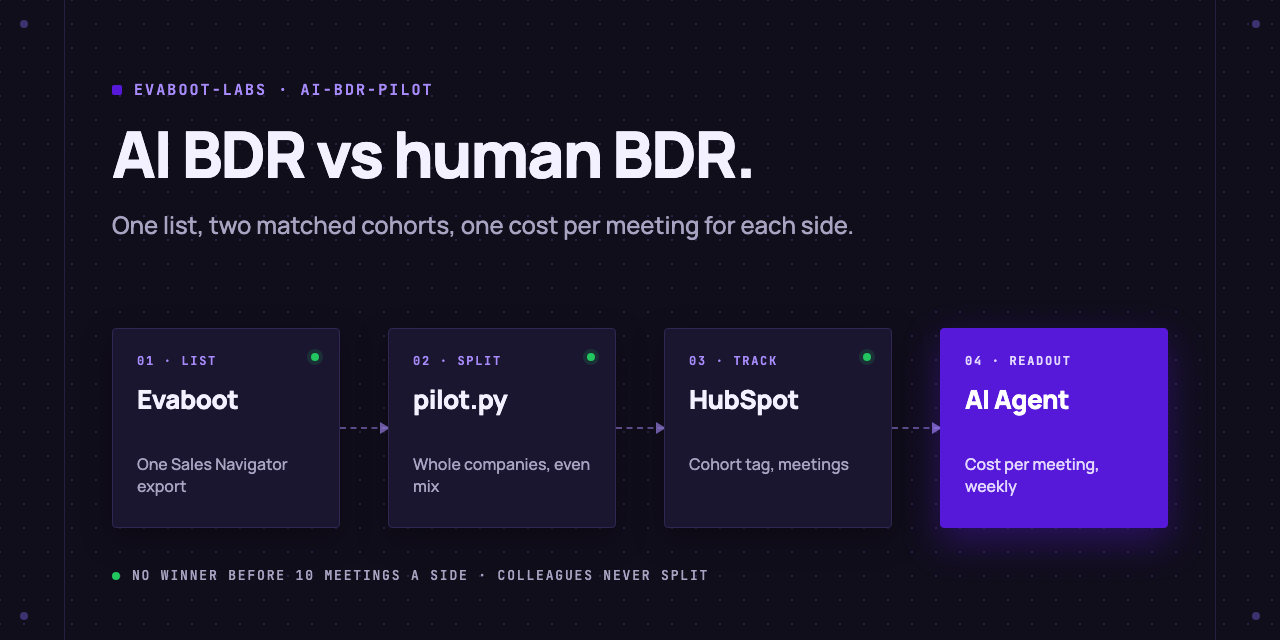
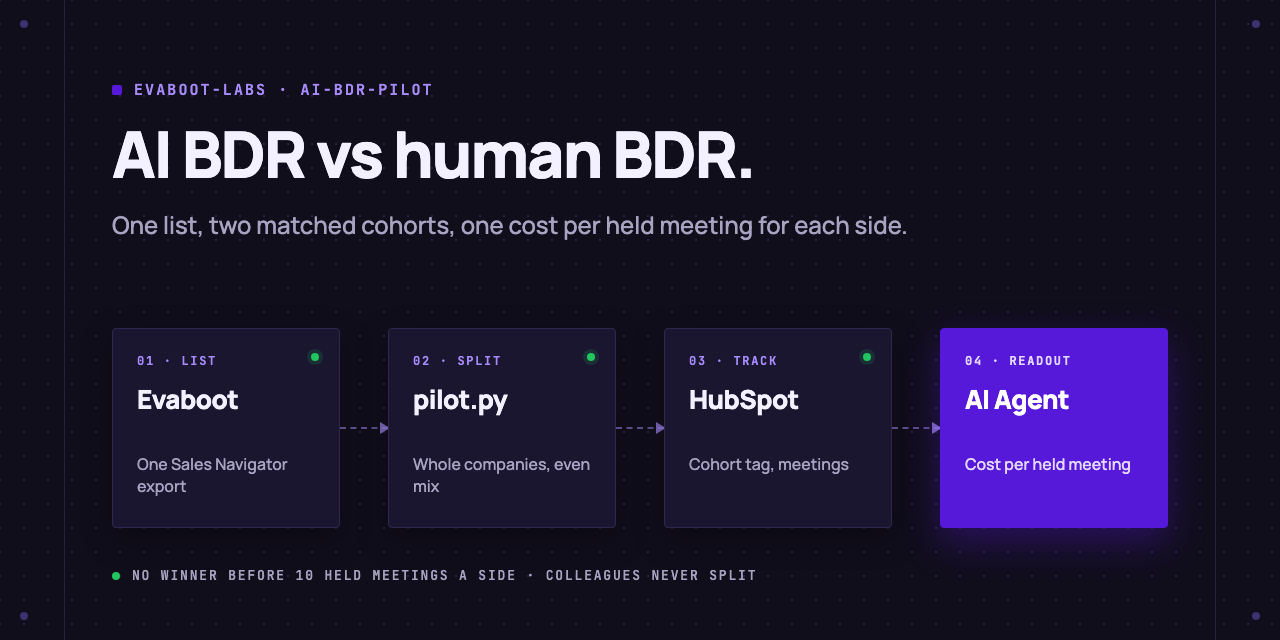
Score on held meetings, not booked ones (#2)
A booked meeting that never happens costs the same and is worth nothing. score counts booked (not cancelled) and held (outcome Completed) meetings, and the verdict uses the cost per held meeting. Same change in the n8n workflow.

diff --git a/n8n/build_workflow.py b/n8n/build_workflow.py
@@ -1,7 +1,7 @@
 """Builds n8n/ai-bdr-pilot.json. Run: python3 n8n/build_workflow.py
 
 Every Monday at 8, the workflow reads the pilot's contacts from HubSpot, counts the meetings of each cohort
-since the start (cancelled ones left out), works out the cost per meeting from your settings, asks Claude for
+since the start (booked, and held = outcome Completed), works out the cost per held meeting from your settings, asks Claude for
 a short readout and adds one row to the "Pilot readouts" Data table. Same rules as pilot.py score and check.
 The split and the push are one-off steps: run them with pilot.py.
 """
@@ -39,14 +39,14 @@ def hubspot(name, url, body_expr, pos):
 
 
 SCORE_JS = r"""
-// Same as pilot.py score: meetings after the start that were not cancelled, cost per meeting per cohort.
+// Same as pilot.py score: meetings after the start, booked (not cancelled) and held (Completed), cost per held meeting.
 const s = $('Settings').first().json;
 const contacts = $('Pilot contacts').first().json.results || [];
 const links = {};
 for (const r of ($('Their meetings').first().json.results || [])) links[String(r.from.id)] = (r.to || []).map(t => String(t.toObjectId));
-const good = new Set((($('Meeting details').first().json.results) || [])
-  .filter(m => String(m.properties.hs_meeting_outcome || '').toUpperCase() !== 'CANCELED' && String(m.properties.hs_timestamp || '') >= s.start)
-  .map(m => String(m.id)));
+const all = (($('Meeting details').first().json.results) || []).filter(m => String(m.properties.hs_timestamp || '') >= s.start);
+const booked = new Set(all.filter(m => String(m.properties.hs_meeting_outcome || '').toUpperCase() !== 'CANCELED').map(m => String(m.id)));
+const held = new Set(all.filter(m => String(m.properties.hs_meeting_outcome || '').toUpperCase() === 'COMPLETED').map(m => String(m.id)));
 const weeksRun = Math.max(1, Math.floor((Date.now() - Date.parse(s.start)) / 6048e5) + 1);
 const weeks = Math.min(weeksRun, Number(s.weeks));
 const month = weeks / 4.33;
@@ -55,13 +55,14 @@ const cost = { human: Number(s.human_cost_per_month) * Number(s.human_share_on_p
 const cohorts = {};
 for (const side of ['ai', 'human']) {
   const rows = contacts.filter(c => c.properties.bdr_pilot_cohort === side);
-  const met = rows.filter(c => (links[String(c.id)] || []).some(m => good.has(m))).length;
+  const has = set => rows.filter(c => (links[String(c.id)] || []).some(m => set.has(m))).length;
+  const b = has(booked), h = has(held);
   cohorts[side] = { people: rows.length, positive_replies: rows.filter(c => c.properties.bdr_pilot_reply === 'positive').length,
-    meetings: met, meetings_per_100: rows.length ? Math.round(1000 * met / rows.length) / 10 : 0,
-    cost: Math.round(cost[side]), cost_per_meeting: met ? Math.round(cost[side] / met) : null };
+    meetings_booked: b, meetings_held: h, show_rate_pct: b ? Math.round(100 * h / b) : null,
+    cost: Math.round(cost[side]), cost_per_held_meeting: h ? Math.round(cost[side] / h) : null };
 }
-const low = Object.keys(cohorts).filter(k => cohorts[k].meetings < Number(s.min_meetings));
-const verdict = low.length ? 'too early' : (cohorts.ai.cost_per_meeting < cohorts.human.cost_per_meeting ? 'ai cheaper' : 'human cheaper');
+const low = Object.keys(cohorts).filter(k => cohorts[k].meetings_held < Number(s.min_meetings));
+const verdict = low.length ? 'too early' : (cohorts.ai.cost_per_held_meeting < cohorts.human.cost_per_held_meeting ? 'ai cheaper' : 'human cheaper');
 return [{ json: { pilot: s.pilot, start: s.start, weeks_counted: weeks, currency: s.currency, min_meetings: Number(s.min_meetings), cohorts, verdict } }];
 """
 
@@ -72,8 +73,8 @@ const text = String($json.output.readout || '');
 const flat = text.replace(/,/g, '');
 const problems = [];
 for (const [side, v] of Object.entries(sc.cohorts)) {
-  for (const key of ['people', 'meetings']) if (!new RegExp('\\b' + v[key] + '\\b').test(flat)) problems.push(`${side} ${key} missing`);
-  if (v.cost_per_meeting && !flat.includes(String(v.cost_per_meeting))) problems.push(`${side} cost per meeting missing`);
+  for (const key of ['people', 'meetings_booked', 'meetings_held']) if (!new RegExp('\\b' + v[key] + '\\b').test(flat)) problems.push(`${side} ${key} missing`);
+  if (v.cost_per_held_meeting && !flat.includes(String(v.cost_per_held_meeting))) problems.push(`${side} cost per held meeting missing`);
 }
 if (sc.verdict === 'too early') {
   if (!/too early/i.test(text)) problems.push('must say too early');
@@ -82,16 +83,16 @@ if (sc.verdict === 'too early') {
 if (/\b(he|she|him|her|his|hers)\b/i.test(text)) problems.push('guesses a gender');
 const a = sc.cohorts.ai, h = sc.cohorts.human;
 return [{ json: { week_of: new Date().toISOString().slice(0, 10), pilot: sc.pilot, verdict: sc.verdict,
-  ai_people: a.people, ai_meetings: a.meetings, ai_cost_per_meeting: a.cost_per_meeting ?? 0,
-  human_people: h.people, human_meetings: h.meetings, human_cost_per_meeting: h.cost_per_meeting ?? 0,
+  ai_people: a.people, ai_booked: a.meetings_booked, ai_held: a.meetings_held, ai_cost_per_held_meeting: a.cost_per_held_meeting ?? 0,
+  human_people: h.people, human_booked: h.meetings_booked, human_held: h.meetings_held, human_cost_per_held_meeting: h.cost_per_held_meeting ?? 0,
   readout: text, check: problems.length ? 'FAIL: ' + problems.join('; ') : 'OK' } }];
 """
 
 READOUT_SYSTEM = """You write the weekly readout of an AI BDR vs human BDR pilot for a sales leader. Use only the numbers in the JSON. Never invent a number, a reason or a trend.
 
 Return {readout}: under 120 words, plain text.
-- Line 1: the verdict. If the verdict is "too early", say "Too early to call" and how many meetings each side still needs; never say who wins or leads.
-- Then one line per cohort: people, meetings, positive replies, money spent so far, and the cost per meeting when there is one, with the currency.
+- Line 1: the verdict, on the cost per HELD meeting. If the verdict is "too early", say "Too early to call" and how many held meetings each side still needs; never say who wins or leads.
+- Then one line per cohort: people, meetings booked, meetings held, positive replies, money spent so far, and the cost per held meeting when there is one, with the currency.
 - Never guess anyone's gender."""
 
 node("Every Monday at 8", "n8n-nodes-base.scheduleTrigger", 1.2, {"rule": {"interval": [

diff --git a/pilot.py b/pilot.py
@@ -1,4 +1,4 @@
-"""AI BDR vs human BDR pilot: one Evaboot list, two matched cohorts, one cost per meeting for each side.
+"""AI BDR vs human BDR pilot: one Evaboot list, two matched cohorts, one cost per held meeting for each side.
 
     python3 pilot.py facts data/export.json > queue/leads.json
         one row per person with a safe email, from an Evaboot export
@@ -9,7 +9,7 @@
     python3 pilot.py push queue/cohorts.json [--apply]
         tags both cohorts in HubSpot and writes queue/ai-cohort.csv for your AI BDR tool; dry run unless --apply
     python3 pilot.py score > queue/score.json
-        replies and meetings per cohort from HubSpot, costs from PILOT.md, cost per meeting
+        meetings booked and held per cohort from HubSpot, costs from PILOT.md, cost per held meeting
     python3 pilot.py check queue/score.json queue/readout.md
         the readout quotes the real numbers and calls no winner before the minimum
 
@@ -215,7 +215,7 @@ def pilot_contacts(name):
 
 
 def meetings(contact_ids, since):
-    """Contacts with at least one meeting since the pilot start that was not cancelled."""
+    """Contacts with a meeting since the pilot start: booked (not cancelled) and held (outcome Completed)."""
     links = {}
     for i in range(0, len(contact_ids), 100):
         status, d = call("POST", "/crm/v4/associations/contacts/meetings/batch/read",
@@ -223,21 +223,25 @@ def meetings(contact_ids, since):
         for r in d.get("results", []):
             links[r["from"]["id"]] = [t["toObjectId"] for t in r.get("to", [])]
     ids = sorted({str(m) for ms in links.values() for m in ms})
-    good = set()
+    booked, held = set(), set()
     for i in range(0, len(ids), 100):
         status, d = call("POST", "/crm/v3/objects/meetings/batch/read",
                          {"properties": ["hs_timestamp", "hs_meeting_outcome"], "inputs": [{"id": m} for m in ids[i:i + 100]]})
         for m in d.get("results", []):
             p = m["properties"]
-            if (p.get("hs_meeting_outcome") or "").upper() != "CANCELED" and (p.get("hs_timestamp") or "") >= since:
-                good.add(m["id"])
-    return {c for c, ms in links.items() if any(str(m) in good for m in ms)}
+            outcome = (p.get("hs_meeting_outcome") or "").upper()
+            if outcome != "CANCELED" and (p.get("hs_timestamp") or "") >= since:
+                booked.add(m["id"])
+                if outcome == "COMPLETED":
+                    held.add(m["id"])
+    return ({c for c, ms in links.items() if any(str(m) in booked for m in ms)},
+            {c for c, ms in links.items() if any(str(m) in held for m in ms)})
 
 
 def score():
     s = settings()
     contacts = pilot_contacts(s["pilot"])
-    met = meetings([c["id"] for c in contacts], s["start"])
+    booked, held = meetings([c["id"] for c in contacts], s["start"])
     weeks_run = max(1, (date.today() - date.fromisoformat(s["start"])).days // 7 + 1)
     weeks = min(weeks_run, int(s["weeks"]))
     month = weeks / 4.33
@@ -248,20 +252,21 @@ def score():
            "min_meetings": int(s["min_meetings"]), "cohorts": {}}
     for side in ("ai", "human"):
         rows = [c for c in contacts if c["properties"].get("bdr_pilot_cohort") == side]
-        n_met = sum(c["id"] in met for c in rows)
+        n_booked = sum(c["id"] in booked for c in rows)
+        n_held = sum(c["id"] in held for c in rows)
         pos = sum(c["properties"].get("bdr_pilot_reply") == "positive" for c in rows)
-        out["cohorts"][side] = {"people": len(rows), "positive_replies": pos, "meetings": n_met,
-                                "meetings_per_100": round(100 * n_met / len(rows), 1) if rows else 0,
-                                "cost": round(cost[side]), "cost_per_meeting": round(cost[side] / n_met) if n_met else None}
-    low = [k for k, v in out["cohorts"].items() if v["meetings"] < out["min_meetings"]]
+        out["cohorts"][side] = {"people": len(rows), "positive_replies": pos, "meetings_booked": n_booked,
+                                "meetings_held": n_held, "show_rate_pct": round(100 * n_held / n_booked) if n_booked else None,
+                                "cost": round(cost[side]), "cost_per_held_meeting": round(cost[side] / n_held) if n_held else None}
+    low = [k for k, v in out["cohorts"].items() if v["meetings_held"] < out["min_meetings"]]
     if low:
         out["verdict"] = "too early"
-        out["why"] = f"{' and '.join(low)} below {out['min_meetings']} meetings"
+        out["why"] = f"{' and '.join(low)} below {out['min_meetings']} held meetings"
     else:
-        a, h = out["cohorts"]["ai"]["cost_per_meeting"], out["cohorts"]["human"]["cost_per_meeting"]
+        a, h = out["cohorts"]["ai"]["cost_per_held_meeting"], out["cohorts"]["human"]["cost_per_held_meeting"]
         out["verdict"] = "ai cheaper" if a < h else "human cheaper"
-    print(f"{s['pilot']}, week {weeks}: AI {out['cohorts']['ai']['meetings']} meetings, human "
-          f"{out['cohorts']['human']['meetings']} meetings, verdict: {out['verdict']}", file=sys.stderr)
+    print(f"{s['pilot']}, week {weeks}: AI {out['cohorts']['ai']['meetings_held']} held meetings, human "
+          f"{out['cohorts']['human']['meetings_held']} held meetings, verdict: {out['verdict']}", file=sys.stderr)
     return out
 
 
@@ -270,11 +275,11 @@ def check(score_path, readout_path):
     flat = text.replace(",", "")
     problems = []
     for side, v in sc["cohorts"].items():
-        for key in ("people", "meetings"):
+        for key in ("people", "meetings_booked", "meetings_held"):
             if not re.search(rf"\b{v[key]}\b", flat):
                 problems.append(f"{side} {key} ({v[key]}) is not in the readout")
-        if v["cost_per_meeting"] and str(v["cost_per_meeting"]) not in flat:
-            problems.append(f"{side} cost per meeting ({v['cost_per_meeting']}) is not in the readout")
+        if v["cost_per_held_meeting"] and str(v["cost_per_held_meeting"]) not in flat:
+            problems.append(f"{side} cost per held meeting ({v['cost_per_held_meeting']}) is not in the readout")
     if sc["verdict"] == "too early":
         if "too early" not in text.lower():
             problems.append("the score says too early: the readout must say so")

diff --git a/README.md b/README.md
@@ -1,11 +1,11 @@
 <picture>
   <source media="(prefers-color-scheme: dark)" srcset=".github/assets/banner-dark.png">
-  <img src=".github/assets/banner-light.png" alt="AI BDR pilot: one Evaboot list, split into two matched cohorts, tracked in HubSpot, with a weekly cost per meeting for each side" width="1280">
+  <img src=".github/assets/banner-light.png" alt="AI BDR pilot: one Evaboot list, split into two matched cohorts, tracked in HubSpot, with a weekly cost per held meeting for each side" width="1280">
 </picture>
 
 # AI BDR pilot
 
-Your AI Agent runs a fair AI BDR vs human BDR test: one Evaboot list split into two matched cohorts, both tracked in HubSpot, and a weekly readout of meetings and cost per meeting that calls no winner too early.
+Your AI Agent runs a fair AI BDR vs human BDR test: one Evaboot list split into two matched cohorts, both tracked in HubSpot, and a weekly readout of meetings booked, meetings held and cost per held meeting that calls no winner too early.
 
 [![Works with Claude Code · Codex · Cursor](https://img.shields.io/badge/works%20with-Claude%20Code%20%C2%B7%20Codex%20%C2%B7%20Cursor-5719D9)](AGENTS.md)
 [![MCP server](https://img.shields.io/badge/MCP-mcp.evaboot.com-5719D9)](https://evaboot.com/mcp)
@@ -55,7 +55,14 @@ companies on both sides: 0
 
 **3. Both sides in HubSpot.** `pilot.py push` tags every contact with the pilot and its cohort, leaves out anyone already in your CRM, and writes `queue/ai-cohort.csv` for your AI BDR tool.
 
-**4. A weekly cost per meeting.** `pilot.py score` counts the meetings logged on each side since the start, cancelled ones left out, and divides what each side cost. Under 10 meetings a side, the verdict is "too early", and `pilot.py check` rejects a readout that calls a winner.
+**4. A weekly cost per held meeting.** `pilot.py score` counts the meetings booked and the meetings held on each side since the start, and divides what each side cost by the held ones. A booked meeting that never happens costs the same and is worth nothing. Under 10 held meetings a side, the verdict is "too early", and `pilot.py check` rejects a readout that calls a winner.
+
+```text
+$ python3 pilot.py score > queue/score.json
+test-run, week 1: AI 1 held meetings, human 2 held meetings, verdict: human cheaper
+```
+
+In our test, the AI side was cheaper per booked meeting (£171 against £318) and dearer per held meeting (£343 against £318): one of its two meetings was a no-show.
 
 **5. Or get the readout in n8n.** Every Monday at 8, the same score and a Claude readout in an n8n Data table.
 

diff --git a/docs/n8n.md b/docs/n8n.md
@@ -1,19 +1,19 @@
 # Run the weekly readout in n8n
 
-[`n8n/ai-bdr-pilot.json`](../n8n/ai-bdr-pilot.json) is the weekly score of `pilot.py` for n8n. Every Monday at 8 it counts each cohort's meetings in HubSpot, works out the cost per meeting, asks Claude for a short readout and adds one row to an n8n Data table. The split and the push happen once: run them with `pilot.py`.
+[`n8n/ai-bdr-pilot.json`](../n8n/ai-bdr-pilot.json) is the weekly score of `pilot.py` for n8n. Every Monday at 8 it counts each cohort's meetings in HubSpot, works out the cost per held meeting, asks Claude for a short readout and adds one row to an n8n Data table. The split and the push happen once: run them with `pilot.py`.
 
 ## What runs
 
 1. **Every Monday at 8** and **Settings**: the same keys as `PILOT.md`.
 2. **Pilot contacts** (HubSpot search): every contact with your `bdr_pilot` name, up to 200.
 3. **Their meetings** and **Meeting details**: the meetings linked to each contact, with their date and outcome.
-4. **Score**: meetings after `start` that were not cancelled, money spent so far, cost per meeting, and "too early" under `min_meetings`.
+4. **Score**: meetings after `start`, booked (not cancelled) and held (outcome *Completed*), money spent so far, cost per held meeting, and "too early" under `min_meetings` held meetings.
 5. **Weekly readout** (Claude) and **Check the readout**: the readout must quote the real numbers and call no winner too early. A failed check is written in the `check` column.
 6. **Add to Pilot readouts**: one row a week in the Data table.
 
 ## Set it up
 
-1. **Create the Data table** *Pilot readouts* (*Overview > Data tables*) with the columns `week_of`, `pilot`, `verdict`, `readout`, `check` (text) and `ai_people`, `ai_meetings`, `ai_cost_per_meeting`, `human_people`, `human_meetings`, `human_cost_per_meeting` (number).
+1. **Create the Data table** *Pilot readouts* (*Overview > Data tables*) with the columns `week_of`, `pilot`, `verdict`, `readout`, `check` (text) and `ai_people`, `ai_booked`, `ai_held`, `ai_cost_per_held_meeting`, `human_people`, `human_booked`, `human_held`, `human_cost_per_held_meeting` (number).
 2. **Import** the JSON in n8n: *Workflows > Import from file*.
 3. **Add two credentials:**
    - **HubSpot App Token** on the three HubSpot nodes: the key from `docs/connect-your-agent.md`.

diff --git a/skills/ai-bdr-pilot/SKILL.md b/skills/ai-bdr-pilot/SKILL.md
@@ -1,6 +1,6 @@
 ---
 name: ai-bdr-pilot
-description: Run a fair AI BDR vs human BDR pilot - split one Evaboot (Sales Navigator) export into two matched cohorts with whole companies on one side, tag both in HubSpot, hand the AI cohort to an AI BDR tool as a CSV, then score meetings and cost per meeting for each side every week and write a readout that calls no winner too early. Use when the user wants to compare an AI BDR or AI SDR with human reps, run a BDR pilot, or measure cost per meeting.
+description: Run a fair AI BDR vs human BDR pilot - split one Evaboot (Sales Navigator) export into two matched cohorts with whole companies on one side, tag both in HubSpot, hand the AI cohort to an AI BDR tool as a CSV, then score meetings booked, meetings held and cost per held meeting for each side every week and write a readout that calls no winner too early. Use when the user wants to compare an AI BDR or AI SDR with human reps, run a BDR pilot, or measure cost per meeting.
 ---
 
 # AI BDR pilot
@@ -52,7 +52,8 @@ Show the dry run: people already in HubSpot are left out, because someone may al
 
 - Import `queue/ai-cohort.csv` into the AI BDR tool and start it on the `start` date.
 - Give the human cohort (HubSpot filter `BDR pilot cohort = Human BDR`) to the BDR the same day.
-- Log every meeting in HubSpot on the contact. Set `BDR pilot reply` to Positive or Negative when a person replies, on both sides.
+- Log every meeting in HubSpot on the contact, and set its outcome after the call: *Completed*, *No show* or *Canceled*. Only *Completed* counts as held.
+- Set `BDR pilot reply` to Positive or Negative when a person replies, on both sides.
 
 ## Step 4: every week
 
@@ -60,7 +61,7 @@ Show the dry run: people already in HubSpot are left out, because someone may al
 python3 pilot.py score > queue/score.json
 ```
 
-Write `queue/readout.md`, under 200 words: the verdict first, then one line per cohort with people, meetings, positive replies, money spent and cost per meeting. Then:
+Write `queue/readout.md`, under 200 words: the verdict first, then one line per cohort with people, meetings booked, meetings held, positive replies, money spent and cost per held meeting. If one side books more but holds fewer, say so. Then:
 
 ```bash
 python3 pilot.py check queue/score.json queue/readout.md

diff --git a/PILOT.md b/PILOT.md
@@ -26,12 +26,12 @@ min_meetings: 10
 | `ai_cost_per_month` | The AI BDR tool, its sending domains and mailboxes, and its data. |
 | `ai_review_hours_per_week` | The time a person spends checking the AI's emails and replies. It is never zero. |
 | `review_hourly_cost` | The hourly cost of that person. |
-| `min_meetings` | No winner is called before each side has this many meetings. Under 10, one good week decides the result. |
+| `min_meetings` | No winner is called before each side has this many held meetings. Under 10, one good week decides the result. |
 
 ## The rules of a fair pilot
 
 - **Same list, same week.** Both cohorts come from one Evaboot export and start on the same day.
 - **Whole companies on one side.** Two colleagues never get two different BDRs.
 - **Only new people.** Anyone already in your CRM is left out: someone may already talk to them.
-- **One meeting definition.** A meeting is a HubSpot meeting linked to the contact, after `start`, not cancelled.
+- **One meeting definition.** A meeting is a HubSpot meeting linked to the contact, after `start`. It is booked if it is not cancelled, and held only when its outcome is *Completed*. Set the outcome after every meeting, on both sides: the verdict uses held meetings.
 - **A positive reply is set by a person**, in `bdr_pilot_reply`, for both sides alike.

diff --git a/AGENTS.md b/AGENTS.md
@@ -1,6 +1,6 @@
 # Agent instructions
 
-This repo runs an AI BDR vs human BDR pilot. It splits one Evaboot export into two matched cohorts (whole companies on one side, the same mix of company sizes and seniorities), tags both in HubSpot, gives the AI cohort to the user's AI BDR tool as a CSV, and every week scores meetings and cost per meeting for each side. When the user asks to compare an AI BDR with human BDRs, run a BDR pilot, or measure cost per meeting:
+This repo runs an AI BDR vs human BDR pilot. It splits one Evaboot export into two matched cohorts (whole companies on one side, the same mix of company sizes and seniorities), tags both in HubSpot, gives the AI cohort to the user's AI BDR tool as a CSV, and every week scores meetings booked, meetings held and cost per held meeting for each side. When the user asks to compare an AI BDR with human BDRs, run a BDR pilot, or measure cost per meeting:
 
 1. Follow the skill in `skills/ai-bdr-pilot/SKILL.md` step by step.
 2. Read `PILOT.md` for the pilot name, dates and costs. If it says `status: EXAMPLE`, ask the user for their numbers and update it.
